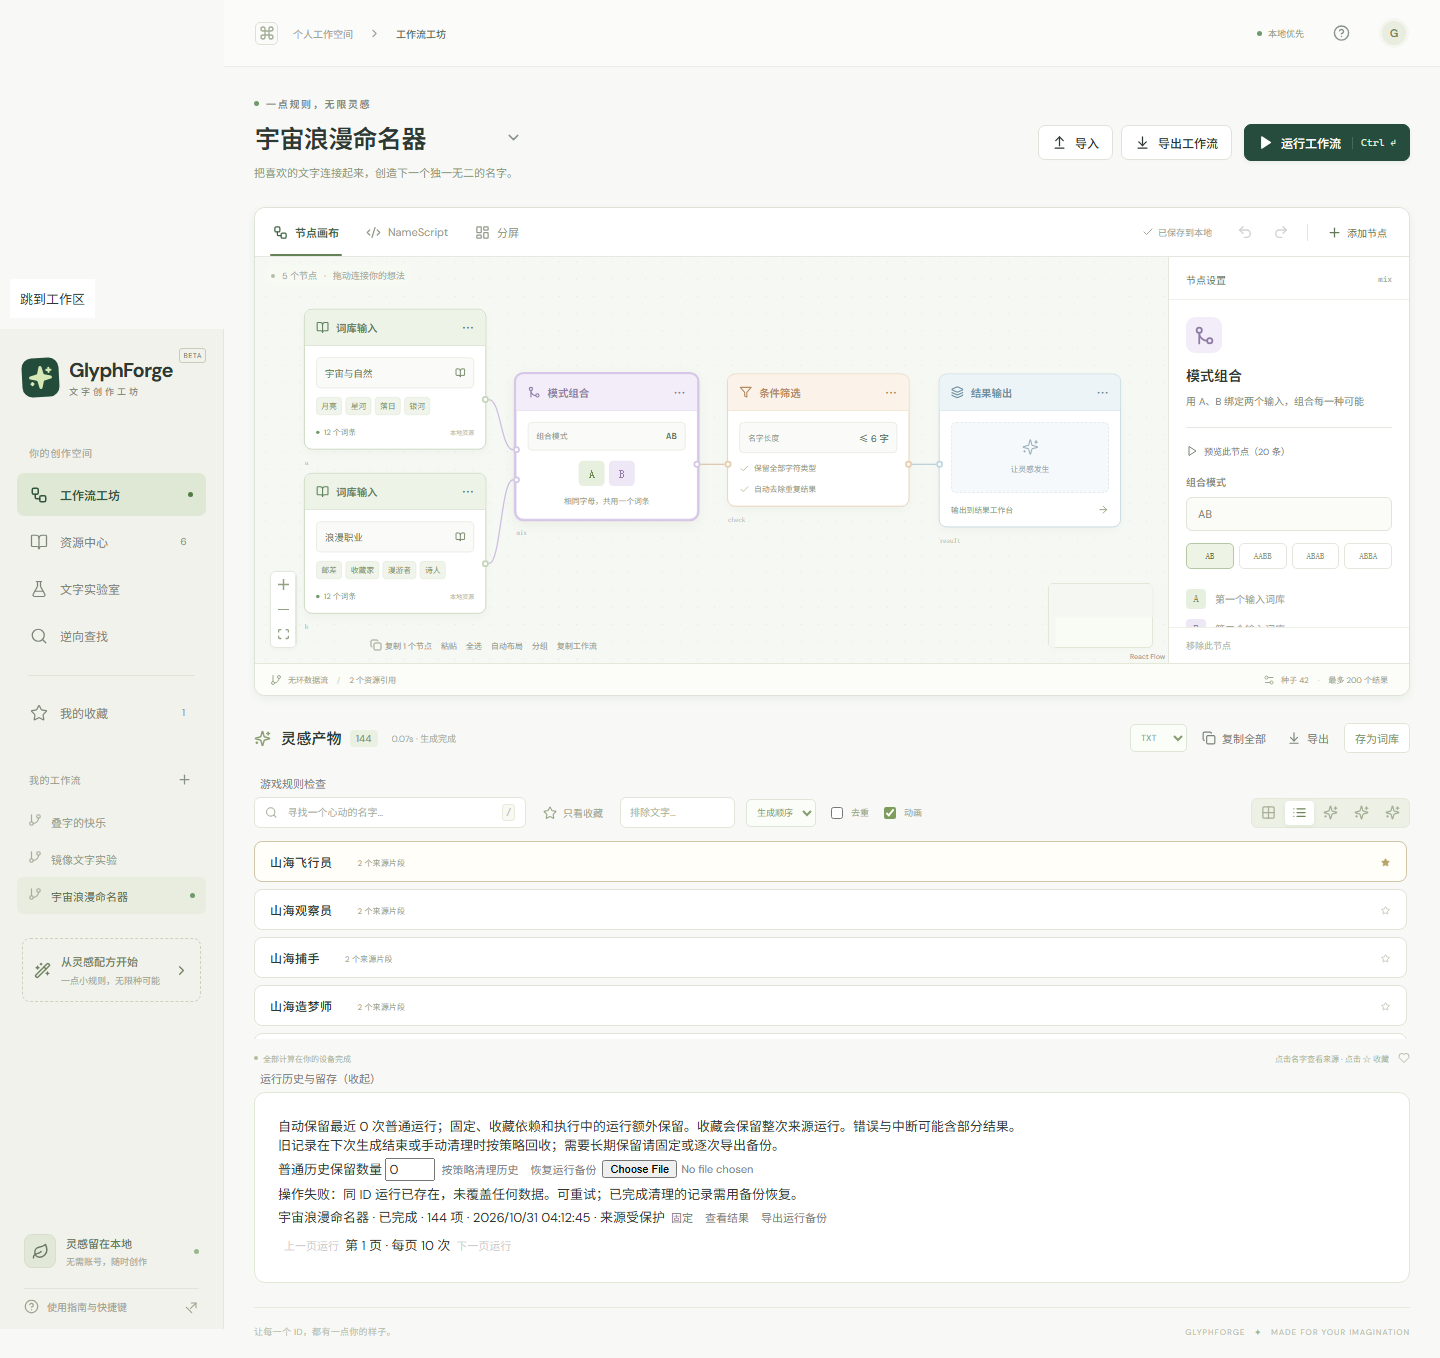
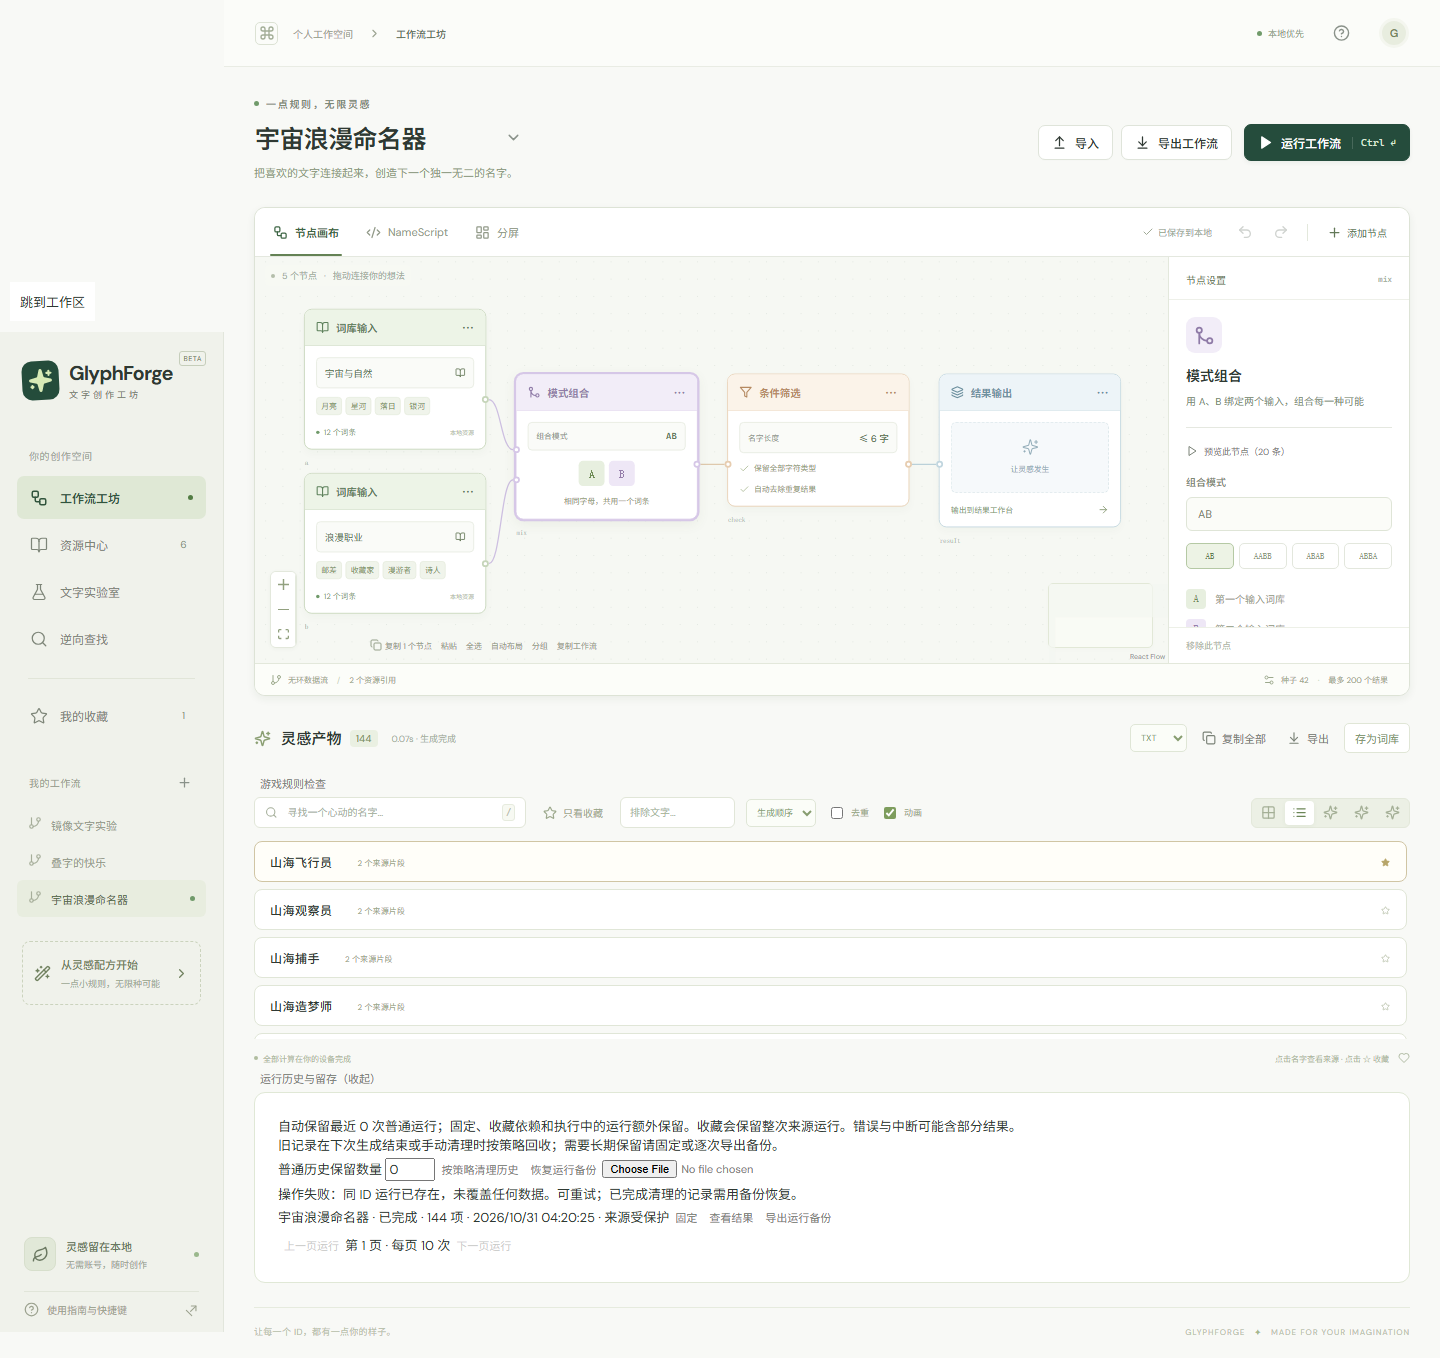
fix: finalize runs when switching workflows

diff --git a/e2e/run-lifecycle.spec.ts b/e2e/run-lifecycle.spec.ts
@@ -196,6 +196,18 @@ test("UI startup cancellation and unexpected Worker failure persist accurate ter
   const cancelled = await page.evaluate(async () => { const h = await import("/e2e-harness/lifecycle.js"); return h.db.runs.where("status").equals("cancelled").count(); });
   expect(cancelled).toBe(20);
   await expect.poll(() => page.evaluate(async () => (await navigator.locks.query()).held?.filter(l => l.name?.startsWith("glyphforge-run:")).length ?? 0)).toBe(0);
+  await page.getByRole("button", { name: /^运行工作流/ }).click();
+  await expect.poll(() => page.evaluate(async () => {
+    const h = await import("/e2e-harness/lifecycle.js"); return h.db.runs.where("status").equals("running").count();
+  })).toBe(1);
+  const switchingId = await page.evaluate(async () => {
+    const h = await import("/e2e-harness/lifecycle.js"); return (await h.db.runs.where("status").equals("running").first()).id;
+  });
+  await page.getByRole("button", { name: "镜像文字实验", exact: true }).click();
+  await expect.poll(() => page.evaluate(async id => {
+    const h = await import("/e2e-harness/lifecycle.js"); return (await h.db.runs.get(id)).status;
+  }, switchingId)).toBe("cancelled");
+  await expect.poll(() => page.evaluate(async () => (await navigator.locks.query()).held?.filter(l => l.name?.startsWith("glyphforge-run:")).length ?? 0)).toBe(0);
   await page.evaluate(() => { (window as any).workerMode = "crash"; });
   await page.getByRole("button", { name: /^运行工作流/ }).click();
   await expect.poll(() => page.evaluate(async () => {

diff --git a/src/App.tsx b/src/App.tsx
@@ -347,16 +347,19 @@ export default function App() {
     },
     [],
   );
-  function stop() {
+  function stopRun(message: string) {
+    const id = worker.current ? activeRun.current : "";
     worker.current?.terminate();
     worker.current = null;
     setRunning(false);
     setProgress("");
-    const id = activeRun.current;
-    if (id) void finishRun(id, "cancelled", "用户停止生成")
+    if (id) void finishRun(id, "cancelled", message)
       .then(() => pruneHistory(historyLimit()))
       .catch(e => notify(`停止状态或历史清理失败：${String(e)}`))
       .finally(() => { releases.current.get(id)?.(); releases.current.delete(id); });
+  }
+  function stop() {
+    stopRun("用户停止生成");
     notify("任务已停止，已生成的结果仍然保留");
   }
   function undo() {
@@ -511,9 +514,7 @@ export default function App() {
     void db.workflows
       .put(workflow)
       .catch(() => notify("切换前保存失败，请导出备份"));
-    worker.current?.terminate();
-    worker.current = null;
-    setRunning(false);
+    stopRun("切换工作流停止执行");
     setWorkflow(w);
     setCandidates([]);
     setStats(undefined);

diff --git a/docs/P2-S0-1-VALIDATION.md b/docs/P2-S0-1-VALIDATION.md
@@ -39,14 +39,14 @@ node scripts/validate-p2-s0-1.mjs --targeted
 
 - **210/210，15文件**：[单元日志](p2-s0-1/tests.txt)，含原201项及新增9项、引擎性能基准。原schema2回归仅将版本断言5更新为6，其他语义断言保留。
 - **25/25生产Chromium**：[全量日志](p2-s0-1/browser.txt)、[机器结果](p2-s0-1/browser-results.json)，包括原19项P0～P1-D链路、百万词条、预算/取消、分享与动画回归。
-- 加强“错误前已持久化128项”夹具和启动终态处理后，再通过全部210项及 **6/6本阶段浏览器**：[最终定向日志](p2-s0-1/browser-targeted.txt)、[机器结果](p2-s0-1/browser-targeted-results.json)。25与6是两批运行，不合并宣称31个独立功能。
+- 加强“错误前已持久化128项”夹具和启动终态处理，并补齐切换工作流取消收尾后，再通过全部210项及 **6/6本阶段浏览器**：[最终定向日志](p2-s0-1/browser-targeted.txt)、[机器结果](p2-s0-1/browser-targeted-results.json)。25与6是两批运行，不合并宣称31个独立功能。
 - [类型检查](p2-s0-1/typecheck.txt)、[构建](p2-s0-1/build.txt)、[构建类型](p2-s0-1/build-types.txt)退出0。React复核：独立组件按需挂载、hook无条件调用、分页订阅、状态/错误/操作具可访问名称。
 
 | 强制项目 | 本轮证据 |
 | --- | --- |
 | 新库100轮 | 各40成功/20错误/20取消/20中断，成功及错误前各128项；[新库JSON](p2-s0-1/browser-fresh-growth.json) |
 | 旧库迁移+100轮 | 原生v5资源/词条/工作流/收藏/run；中止升级再重试，随后同样100轮；[旧库JSON](p2-s0-1/browser-v5-growth.json) |
-| 成功/错误/取消/中断 | 每轮读出真实终态，错误含已提交部分结果；UI另做20次启动取消、注入Worker error，最终无遗留锁 |
+| 成功/错误/取消/中断 | 每轮读出真实终态，错误含已提交部分结果；UI另做20次启动取消、执行中切换工作流、注入Worker error，最终无遗留锁 |
 | 刷新与重新打开 | 同context刷新/关页重开；独立Chromium持久profile真正关闭浏览器进程，再以同profile启动，部分结果数量保持 |
 | 收藏旧结果及裁剪 | 第1次收藏、第5次固定，旧库另含升级前收藏；清到普通历史0仍保留来源 |
 | 来源可读 | 旧run.workflow、versions.historic=7、原词条/收藏可读，收藏generated可补回；实际打开详情UI |
